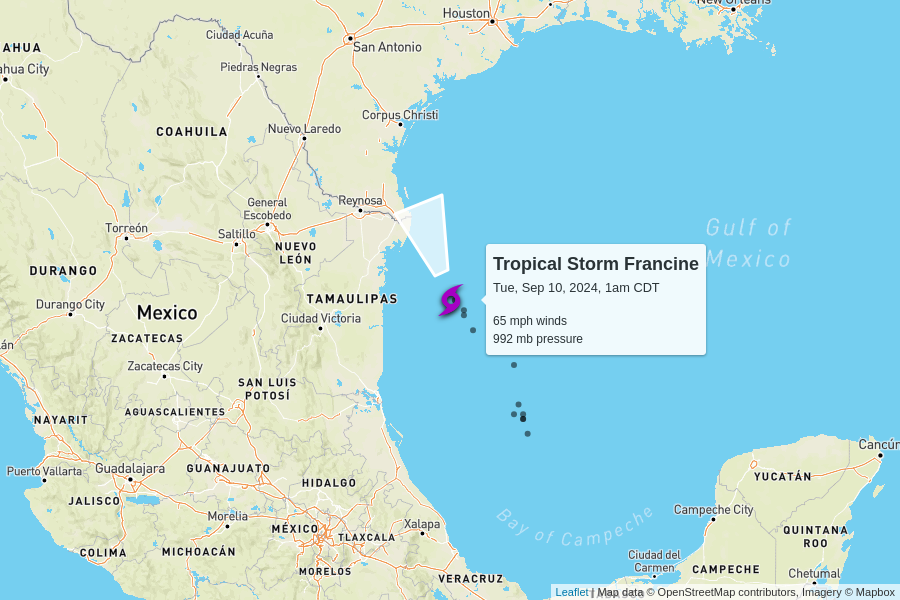
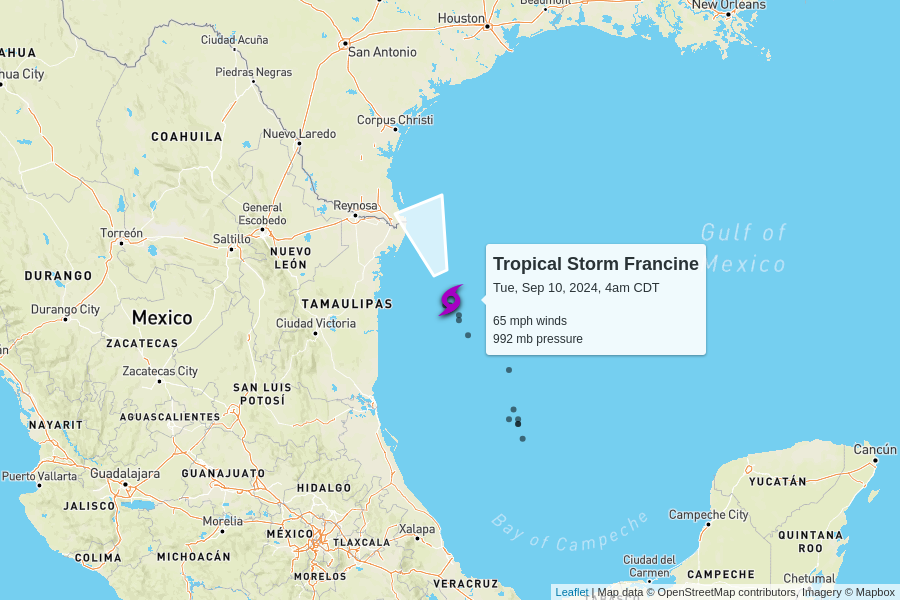
automatic update

diff --git a/docs/index.html b/docs/index.html
@@ -102,7 +102,7 @@
         <td colspan="6" class="storm category-0" >
           <h2>
             Tropical Storm Francine
-            <p class="updated">last updated <span data-time>2024-09-10T06:00:00.000Z</span></p>
+            <p class="updated">last updated <span data-time>2024-09-10T09:00:00.000Z</span></p>
           </h2>
         </td>
       </tr>
